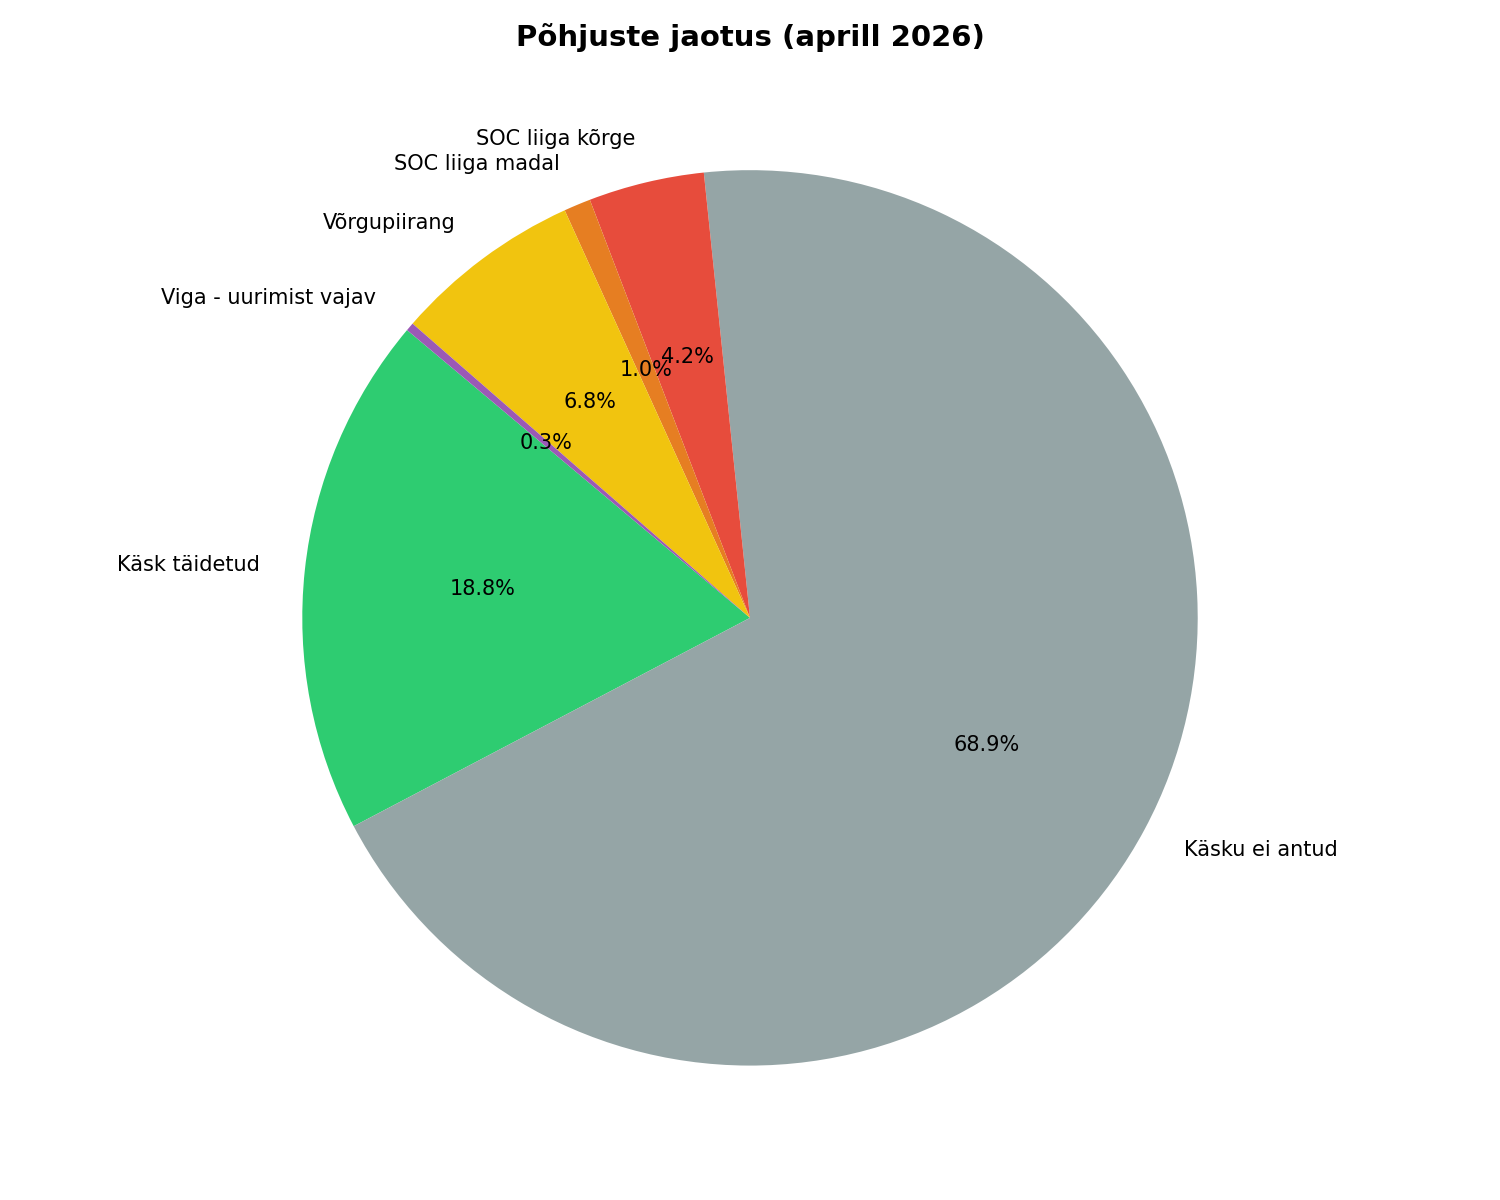
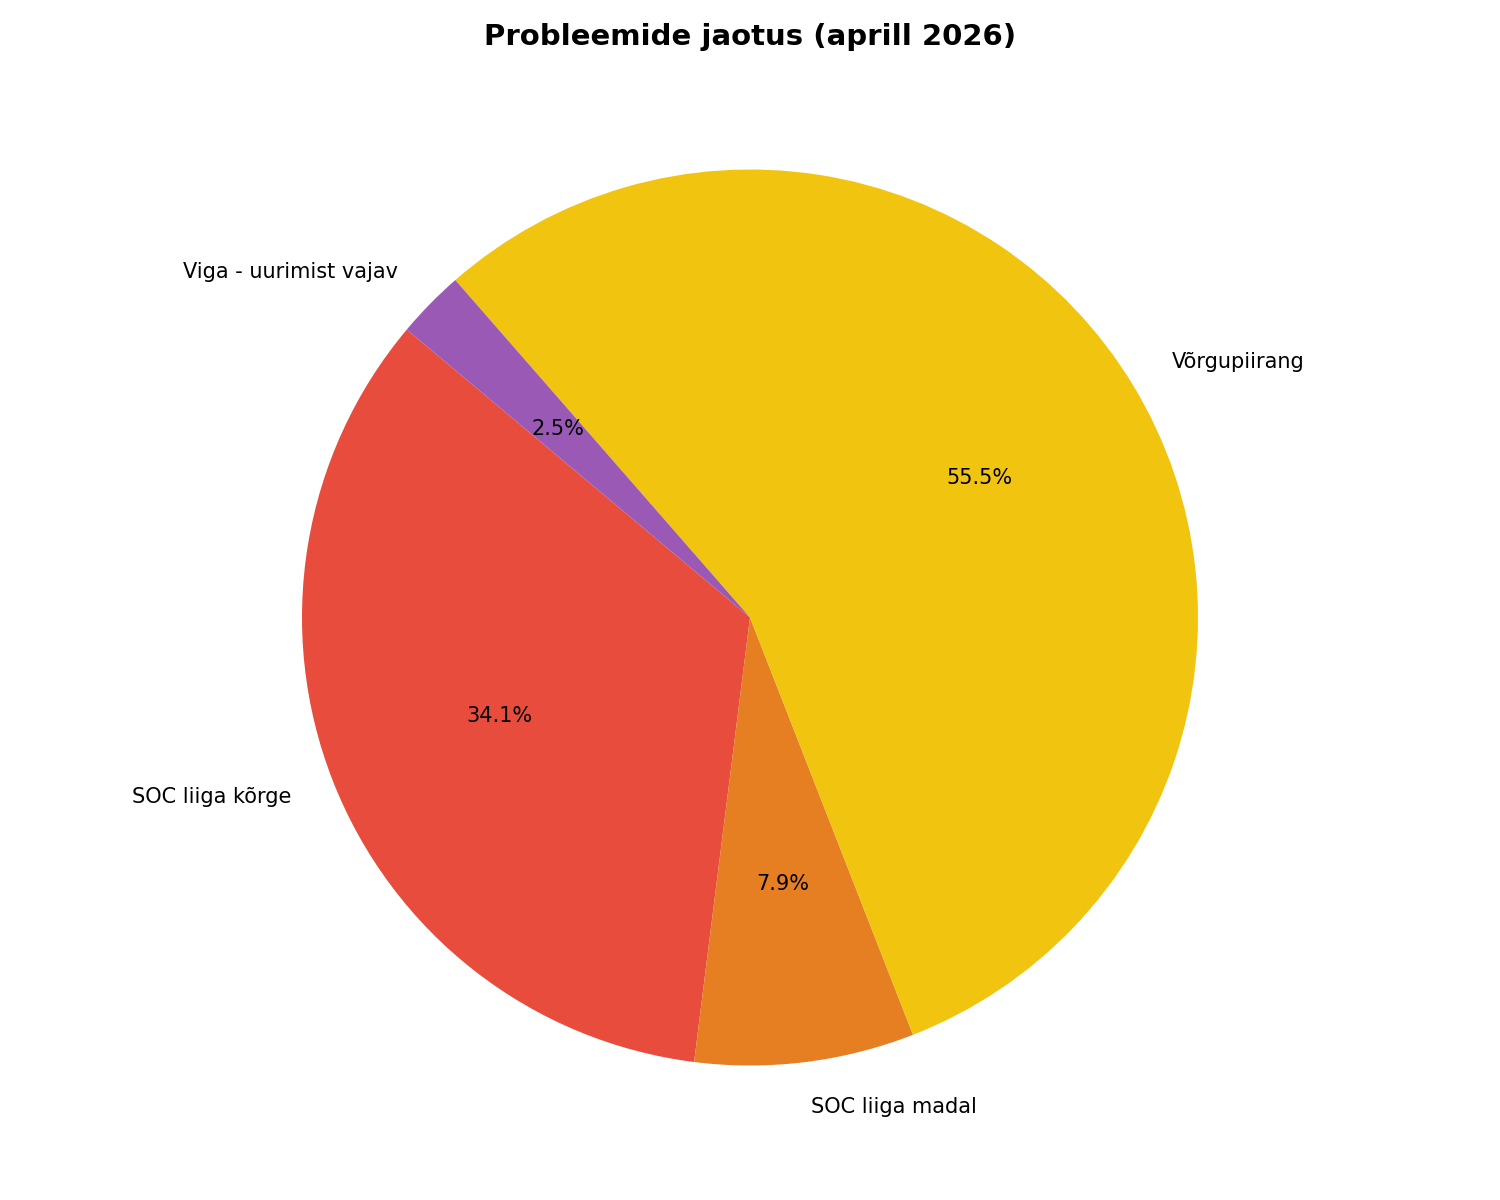
Summary and charts: restrict to 4 core errors only, % from error total

diff --git a/analyze_telemetry.py b/analyze_telemetry.py
@@ -97,55 +97,55 @@ def main():
         'Ootamatu reageering': 'Käsku ei antud'
     })
 
-    # --- Generate Summary Statistics (using mapped reasons) ---
+    # --- Generate Summary Statistics (only 4 core errors) ---
     print("Generating Summary Statistics...")
     total_rows = len(df)
-    reason_counts = df['Põhjus'].value_counts()
-    
-    # Ensure all 6 target categories are present in the counts, even if 0
-    target_categories = [
-        'Käsk täidetud',
-        'Käsku ei antud',
+
+    # Only the 4 core error categories
+    error_categories = [
         'SOC liiga kõrge',
         'SOC liiga madal',
         'Võrgupiirang',
         'Viga - uurimist vajav'
     ]
-    reason_counts = reason_counts.reindex(target_categories, fill_value=0)
-    reason_pct = (reason_counts / total_rows) * 100
-    
+    error_counts = df['Põhjus'].value_counts().reindex(error_categories, fill_value=0)
+    total_errors = error_counts.sum()
+
+    # Percentages calculated from total error count only
+    error_pct = (error_counts / total_errors) * 100
+
     summary_df = pd.DataFrame({
-        'Kogus (Ridade arv)': reason_counts,
-        'Osakaal (%)': reason_pct
+        'Kogus (Ridade arv)': error_counts,
+        'Osakaal vigadest (%)': error_pct
     })
-    summary_df.index.name = 'Põhjus'
-    
-    avg_execution_overall = df['Täitmise %'].mean()
-    avg_execution_when_command = df.loc[df['ESS Plan'] != 0, 'Täitmise %'].mean()
-    
+    summary_df.index.name = 'Probleem'
+
     stats_df = pd.DataFrame({
         'Näitaja': [
-            'Ridade koguarv', 
-            'Keskmine täitmise % (kõik read)', 
-            'Keskmine täitmise % (kui anti käsk)'
+            'Ridade koguarv',
+            'Vigade koguarv (4 probleemi)',
+            'SOC liiga kõrge',
+            'SOC liiga madal',
+            'Võrgupiirang',
+            'Viga - uurimist vajav',
         ],
         'Väärtus': [
-            total_rows, 
-            avg_execution_overall, 
-            avg_execution_when_command
+            total_rows,
+            int(total_errors),
+            int(error_counts['SOC liiga kõrge']),
+            int(error_counts['SOC liiga madal']),
+            int(error_counts['Võrgupiirang']),
+            int(error_counts['Viga - uurimist vajav']),
         ]
     })
 
-    # --- Hourly Analysis (using mapped reasons) ---
+    # --- Hourly Analysis (only 4 core errors) ---
     print("Generating Hourly Analysis...")
     hourly_groups = df.groupby('Tund')
-    
+
     hourly_df = pd.DataFrame(index=range(24))
     hourly_df.index.name = 'Tund'
-    
-    hourly_df['Käskude arv'] = hourly_groups['ESS Plan'].apply(lambda s: (s != 0).sum())
-    hourly_df['Keskmine täitmise %'] = hourly_groups['Täitmise %'].mean()
-    
+
     hourly_df['SOC liiga kõrge'] = hourly_groups['Põhjus'].apply(
         lambda s: (s == 'SOC liiga kõrge').sum()
     )
@@ -158,20 +158,24 @@ def main():
     hourly_df['Viga - uurimist vajav'] = hourly_groups['Põhjus'].apply(
         lambda s: (s == 'Viga - uurimist vajav').sum()
     )
+    hourly_df['Vigade koguarv tunnis'] = (
+        hourly_df['SOC liiga kõrge'] + hourly_df['SOC liiga madal'] +
+        hourly_df['Võrgupiirang'] + hourly_df['Viga - uurimist vajav']
+    )
 
     # --- Write Outputs to Downloads ---
     print(f"Writing combined summary to CSV: {output_csv_summary}...")
     with open(output_csv_summary, 'w', encoding='utf-8') as f:
-        f.write("KOKKUVÕTE NÄITAJAD\n")
+        f.write("ÜLDINE STATISTIKA\n")
         stats_df.to_csv(f, index=False)
-        f.write("\nPÕHJUSTE JAOTUS\n")
+        f.write("\nPROBLEEMIDE JAOTUS (ainult 4 viga)\n")
         summary_df.to_csv(f, index=True)
-        f.write("\nTUNNIPÕHINE ANALÜÜS\n")
+        f.write("\nTUNNIPÕHINE ANALÜÜS (ainult 4 viga)\n")
         hourly_df.reset_index().to_csv(f, index=False)
-        
+
     print(f"Writing stats to CSV: {output_csv_stats}...")
     stats_df.to_csv(output_csv_stats, index=False)
-    
+
     print(f"Writing reasons to CSV: {output_csv_reasons}...")
     summary_df.to_csv(output_csv_reasons, index=True)
 
@@ -201,29 +205,29 @@ def main():
     charts_dir = '/Users/user/.gemini/antigravity-ide/scratch'
     os.makedirs(charts_dir, exist_ok=True)
     
-    # 1. Pie Chart of reason distribution
+    # 1. Pie Chart - only 4 core errors, percentages from error total
     plt.figure(figsize=(10, 8))
-    colors = ['#2ecc71', '#95a5a6', '#e74c3c', '#e67e22', '#f1c40f', '#9b59b6']
-    reason_counts.plot(kind='pie', autopct='%1.1f%%', startangle=140, colors=colors)
-    plt.title('Põhjuste jaotus (aprill 2026)', fontsize=14, fontweight='bold')
+    colors_pie = ['#e74c3c', '#e67e22', '#f1c40f', '#9b59b6']
+    error_counts.plot(kind='pie', autopct='%1.1f%%', startangle=140, colors=colors_pie)
+    plt.title('Probleemide jaotus (aprill 2026)', fontsize=14, fontweight='bold')
     plt.ylabel('')
     plt.tight_layout()
     pie_path = os.path.join(charts_dir, 'reason_distribution.png')
     plt.savefig(pie_path, dpi=150)
     plt.close()
-    
-    # 2. Bar Chart of problems by hour
+
+    # 2. Bar Chart - only 4 core errors by hour
     plt.figure(figsize=(12, 6))
     hourly_problems = hourly_df[['SOC liiga kõrge', 'SOC liiga madal', 'Võrgupiirang', 'Viga - uurimist vajav']]
     hourly_problems.plot(
-        kind='bar', 
-        stacked=True, 
-        color=['#e74c3c', '#e67e22', '#f1c40f', '#9b59b6'], 
+        kind='bar',
+        stacked=True,
+        color=['#e74c3c', '#e67e22', '#f1c40f', '#9b59b6'],
         ax=plt.gca()
     )
     plt.title('Probleemide esinemine tundide lõikes (aprill 2026)', fontsize=14, fontweight='bold')
     plt.xlabel('Tund (0-23)', fontsize=12)
-    plt.ylabel('Ridade arv', fontsize=12)
+    plt.ylabel('Probleemide arv', fontsize=12)
     plt.grid(axis='y', linestyle='--', alpha=0.7)
     plt.legend(title='Probleemi tüüp')
     plt.tight_layout()
@@ -250,7 +254,7 @@ def main():
     
     print("\n--- ANALYSIS COMPLETED ---")
     print(stats_df.to_string(index=False))
-    print("\nPõhjuste jaotus:")
+    print("\nProbleemide jaotus (4 viga, % vigade koguhulgast):")
     print(summary_df)
 
 if __name__ == '__main__':
